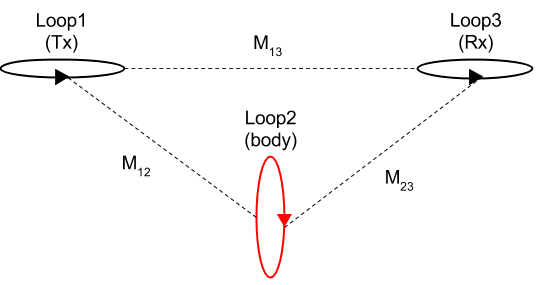
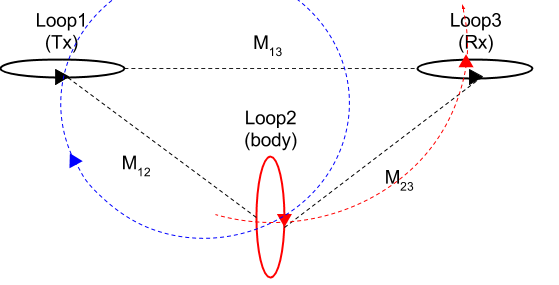
Finish 3 loops on my end

diff --git a/content/maxwell3_fdem/emi_tutorial/mutualinductance.rst b/content/maxwell3_fdem/emi_tutorial/mutualinductance.rst
@@ -1,14 +1,17 @@
 .. _mutualinductance:
 
 Mutual inductance
------------------
+=================
+
+What is mutual inductance?
+--------------------------
 
 When an EMF (:math:`\mathcal{E}`) is produced in a loop because of the change in current in a coupled loop, the effect is called mutual inductance.
 
 .. figure:: ./images/Concepts_3loops_only_M.png
    :align: center
    :scale: 60%
-   :name: Concepts_3loops_only_K
+   :name: Concepts_3loops_only_M
 
    Conceptual diagram for 3-loops system.
 
@@ -16,24 +19,16 @@ A sinusoidal current in the Loop1 (Tx) generates a primary magnetic field. This 
 
 .. math::
     \mathcal{E}_2 = -M_{12} \imath \omega I_1,
+    :label: EMF2
 
-where :math:`M_{12}` is the mutual inductance between Loop1 and Loop2 (previously we used :math:`M` for this term). Using :ref:`Lenz's law <lenz>` :math:`\mathcal{E}_2 = -\imath \omega \Phi_2`, :math:`M_{12}` can be expressed as
+where :math:`M_{12}` is the mutual inductance between Loop1 and Loop2 (previously in :ref:`amplitudeandphase`, we used :math:`M=M_{12}`, :math:`I^p=I_1`, :math:`\mathcal{E}=\mathcal{E}_2` and :math:`\Phi^p = \Phi_2`, :math:`L = L_{2}`). Using :ref:`Lenz's law <lenz>` :math:`\mathcal{E}_2 = -\imath \omega \Phi_2`, :math:`M_{12}` can be expressed as
 
 .. math::
     M_{12} = \frac{\Phi_2}{I_1},
 
 where :math:`\Phi_2` is the magnetic flux at Loop2. This voltage generates current at Loop2, which in turn generates a secondary magnetic field in opposing direction.
 
-.. figure:: ./images/LoopOrientations.png
-    :name: looporient
-    :figwidth: 30%
-    :align: right
-
-    The orientation of the loops can be changed by adjusting the inclination `I` and the declination `D`.
-
-The primary and secondary magnetic field are measured at the Loop3 (Rx). If the primary and secondary field are in opposing directions at the receiver, we consider this to be a negative datum. If they are in the same direction, the datum is positive. This geometric coupling can be explained with the mutual inductance between each Loop.
-
-For this, we first write :math:`\frac{H^s}{H^p}` at Loop3 as
+Depending on the orientation of three loops, and distance between them, strength of the primary and secondary magnetic field varies. This geometric "coupling" can be explained with the mutual inductance between loops. For this, we first write :math:`\frac{H^s}{H^p}` at Loop3 as
 
 .. math::
     \frac{H^s}{H^p} = -\frac{M_{12}K_{23}}{K_{13}L_2} \frac{\alpha^2+\imath \alpha}{1+\alpha^2}
@@ -42,8 +37,19 @@ For this, we first write :math:`\frac{H^s}{H^p}` at Loop3 as
 Considering arbitrary coupling coeffients, :math:`K_{12}= \frac{H_2}{I_1}`, which satisfies :math:`M_{12} = K_{12} \sqrt{L_1 L_2}`. Similarly, we obtain :math:`M_{23} = K_{23} \sqrt{L_2 L_3}` and  :math:`M_{13} = K_{13} \sqrt{L_1 L_3}`. Then Eq. :eq:`l1` can be rewritten as
 
 .. math::
-    \frac{H^s}{H^p}  = - \frac{M_{12} M_{23}}{M_{13}L_2} \frac{\alpha^2 + i \alpha}{1 + \alpha^2},
+    \frac{H^s}{H^p}  = - \frac{M_{12} M_{23}}{M_{13}L_2} \frac{\alpha^2 + i \alpha}{1 + \alpha^2} = -A \ Q(\alpha),
     :label: l2
+
+where :math:`A=\frac{M_{12} M_{23}}{M_{13}L_2}` and :math:`Q=\frac{\alpha^2 + i \alpha}{1 + \alpha^2}`. This simple form allows us to obtain few insights:
+
+.. note::
+    - :math:`A` can be considered as geometric coupling, which determines amplitude of :math:`\frac{H^s}{H^p}`, can be computed with mutual inductance bewtween loops. Note that it is real-valued, hence no effect on phase of :math:`\frac{H^s}{H^p}`.
+
+    - Complex resposne function, :math:`Q` have effects on both amplitude and phase, and this depends upon frequency and physical property of the Loop2 (:math:`\alpha = \frac{\omega L}{R}`).
+
+
+Deriving mutual inductance betwee two loops
+-------------------------------------------
 
 Equation :eq:`l2` depends on the mutual inductance between the loops.
 The mutual inductance can be derived from the :ref:`Biot-Savart law <biot_savart>`, which gives us the magnetic field. Assume we are looking at two loops and the magnetic field due to the first loop is :math:`\mathbf{B}_1` . We can calculate the flux :math:`\Phi_2` of this magnetic field through the second loop as follows:
@@ -78,10 +84,53 @@ We can then write the mutual inductance between two loops as:
 
 There are a few significant things about Equation :eq:`m12`:
 
-- :math:`M_{12}` depends purely on geometry, such as the size, shape, and relative positions of the two loops
-- This expression doesn't change if we look at the flux in the first loop due to the second loop, meaning that :math:`M_{12} = M_{21}` .
+.. note::
+    - :math:`M_{12}` depends purely on geometry, such as the size, shape, and relative positions of the two loops
+    - This expression doesn't change if we look at the flux in the first loop due to the second loop, meaning that :math:`M_{12} = M_{21}`. Therefore, following reciprocity staifies from Eq. :eq:`EMF2`
+
+    .. math::
+        M_{12} = \frac{\Phi_2}{I_1} = \frac{\Phi_1}{I_2}.
+        :label: EMF2_1
 
 So,  by solving Equation :eq:`m12` for the three mutual inductances for a three-loop system, we can analytically solve Equation :eq:`l2` and determine the data :math:`H^s / H^p` over different targets, using differing frequencies, loop orientations, and loop separations. This can provide meaningful understanding about three-loop systems (such as the EM-31 and Resolve systems) and their data.
 
+Effects of coupling
+-------------------
+
+.. figure:: ./images/LoopOrientations.png
+    :figwidth: 30%
+    :align: right
+    :name: LoopOrientations
+
+    The orientation of the loops can be changed by adjusting the inclination `I` and the declination `D`.
+
+The primary and secondary magnetic field are measured at the Loop3 (Rx), and we set our EM datum as :math:`\frac{H^s}{H^p}`. If the primary and secondary field are in opposing directions at the receiver, we consider this to be a negative datum. If they are in the same direction, the datum is positive. Hence, for instance :numref:`Concepts_3loops_only_M` has negative datum. Accordingly, :math:`A` in Eq. :eq:`l2`, which defines geometric coupling should be positive. :numref:`LoopOrientations` shows the orientation of the loop with inclination (I) and declination (D). Considering I and D of the Loop2, :numref:`Concepts_3loops_only_M` can be considered as I=0 and D=90 degree. For this case, we consider a loop-loop EM survey with the geometry of EM-31 (3.66m Tx-Rx offset; CITE), and the body (Loop2) is embedded 3 m below the surface. :numref:`EMdataI0D90` shows complex response function (Plot1), easting line at 0 m-northing (Plot2), plan maps of real and imaginary part of the EM data with the loop-loop EM survey when :math:`\alpha` =0.31. Plot2 clearly shows how coupling is changing depending on relative location and orientation of three loop system. Plot3 and Plot4 illustrate plan map of EM data we could possibly obtain by acquring multiplie lines. Following considers different orientation of the body (Loop2), which will generate different coupling effects on the measured EM data.
+
+.. figure:: ./images/EMdataI0D90.png
+    :align: center
+    :name: EMdataI0D90
+
+    Frequency domain EM response from loop-loop EM survey when I=0 and D=90
+
+:numref:`EMdataI_90D0` shows same figures, but with different I and D of body (Loop2): I=-90 and D=0. Shape anomalous response is significantly different due to the different coupling among three loop system. Especially, the peak anomaly at the center has positive sign. :numref:`EMdataI0D0` shows the case when I=0 and D=0. This is null-coupled case where there is no primary flux passing the area of Loop2, hence measured reponse is zero everywhere.
+
+.. figure:: ./images/EMdataI_90D0.png
+    :align: center
+    :name: EMdataI_90D0
+
+    Frequency domain EM response from loop-loop EM survey when I=-90 and D=0 degree
+
+
+.. figure:: ./images/EMdataI0D0.png
+    :align: center
+    :name: EMdataI0D0
+
+    Frequency domain EM response from loop-loop EM survey when I=0 and D=0
+
+If you want to play with loop-loop EM survey click below:
+
 .. todo::
     Link to Python app for three-loop system
+
+
+

diff --git a/content/maxwell3_fdem/emi_tutorial/amplitudeandphase.rst b/content/maxwell3_fdem/emi_tutorial/amplitudeandphase.rst
@@ -1,7 +1,7 @@
 .. _amplitudeandphase:
 
 Amplitude and phase
--------------------
+===================
 
 .. figure:: ./images/Concepts_3loops_only_K.png
    :align: center
@@ -10,14 +10,14 @@ Amplitude and phase
 
    Conceptual diagram for 3-loops system.
 
-Based upon the induced current in the body (Loop2), in CITE, here we consider amplitude and phase of the secondary magnetic field (:math:`H^s`) normalized by primary magnetic field (:math:`H^p`), :math:`\frac{H^s}{H^p}`, measured at Rx (Loop3). For this, we first consider the primary magnetic field at body (Loop2), :math:`H^p_2`, resulting from a current, :math:`i^p`, flowing in the Loop1, which can be expressed as
+Based upon the induced current in the body (Loop2), in :ref:`induced_currents_body`, here we consider amplitude and phase of the secondary magnetic field (:math:`H^s`) normalized by primary magnetic field (:math:`H^p`), :math:`\frac{H^s}{H^p}`, measured at Rx (Loop3). For this, we first consider the primary magnetic field at body (Loop2), :math:`H^p_2`, resulting from a current, :math:`i^p`, flowing in the Loop1, which can be expressed as
 
 .. math::
 	H^p_2(t) = K_{12} i^p(t),
 
 where :math:`i^p = I^p cos(\omega t)` and :math:`K_{12}` is coefficint depending on the geomtry of the system, the area, and number of turns of the primary coil, and attenuation of the wave between Loop1 and Loop2.
 
-Effectively, through Faraday's law, :math:`\mathcal{E} = -\imath \omega \Phi^p`, volatage will be generated, which generates induced currents (this has been done in CITE):
+Effectively, through Faraday's law, :math:`\mathcal{E} = -\imath \omega \Phi^p`, volatage will be generated, which generates induced currents (this has been done in :ref:`induced_currents_body`):
 
 .. math::
     I(\omega) = \frac{-\imath \alpha}{1+\imath\alpha}\frac{\Phi^p}{L},
@@ -104,6 +104,7 @@ The lag in the phase of :math:`\frac{\pi}{2}` is due to the inductive coupling b
 
 .. math::
 	H^s = K_{23}|I(\omega)| cos (\omega t - (\frac{\pi}{2}+\phi))
+
 	    = K_{23}|I(\omega)| sin (\omega t - \phi)
 
 	    = K_{23}|I(\omega)| [cos (\omega t-\frac{\pi}{2}) cos (\phi) + cos (\omega t-\pi) sin (\phi)]
